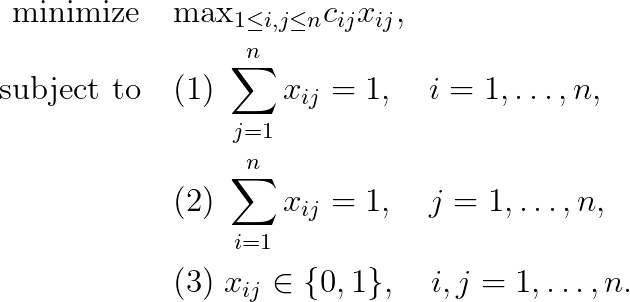
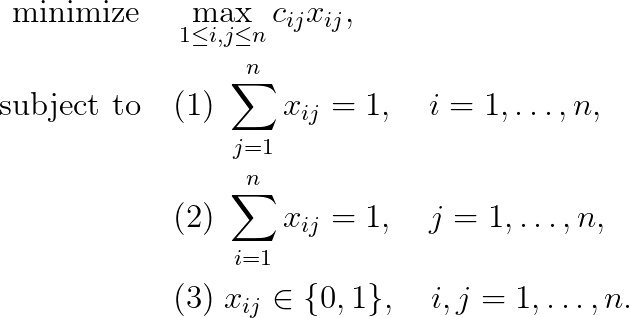
Create 16-linear-bottleneck-assignment-problem

diff --git a/16-linear-bottleneck-assignment-problem/problem.tex b/16-linear-bottleneck-assignment-problem/problem.tex
@@ -1,5 +1,5 @@
 \begin{align*}
-\text{minimize} \quad & \text{max}_{1 \leq i, j \leq n} c_{ij} x_{ij}, \\
+\text{minimize} \quad & \max_{1 \leq i, j \leq n} c_{ij} x_{ij}, \\
 \text{subject to} \quad & \text{(1)} \; \sum_{j=1}^n x_{ij} = 1, \quad i = 1, \ldots, n,  \\
 & \text{(2)} \; \sum_{i=1}^n x_{ij} = 1, \quad j = 1, \ldots, n,  \\
 & \text{(3)} \; x_{ij} \in \lbrace 0, 1 \rbrace, \quad i,j = 1, \ldots,n.
